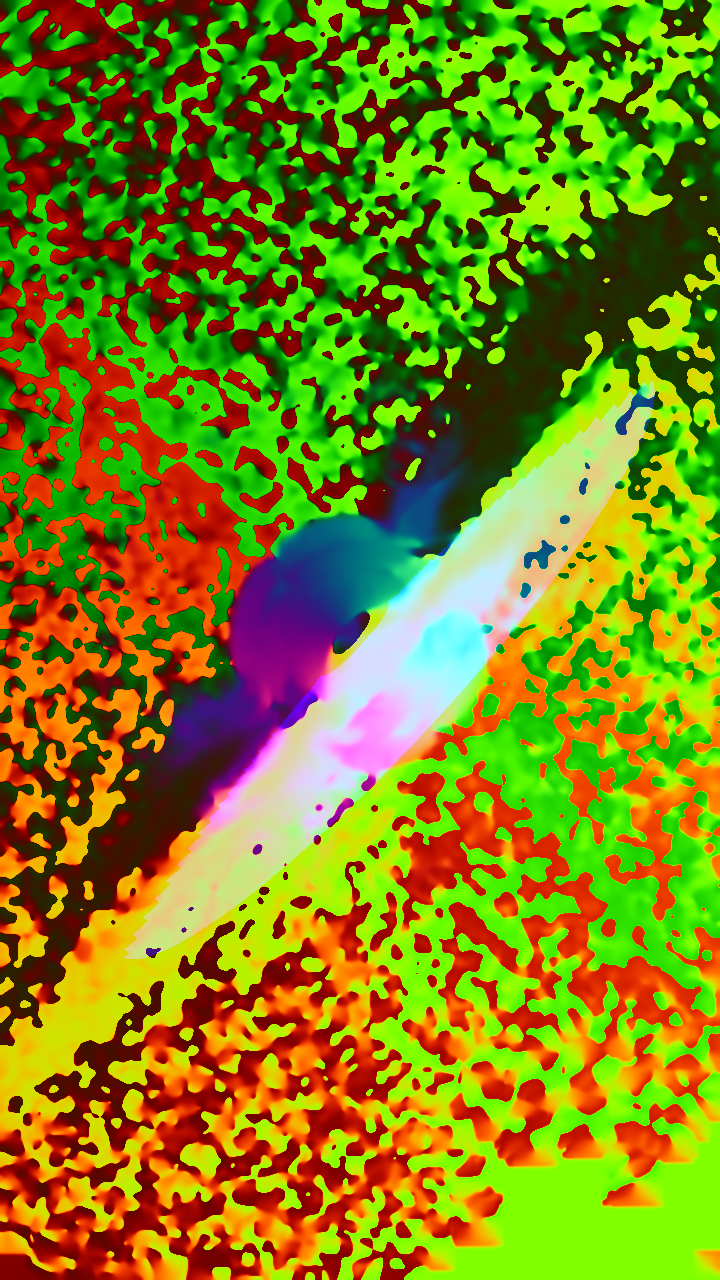
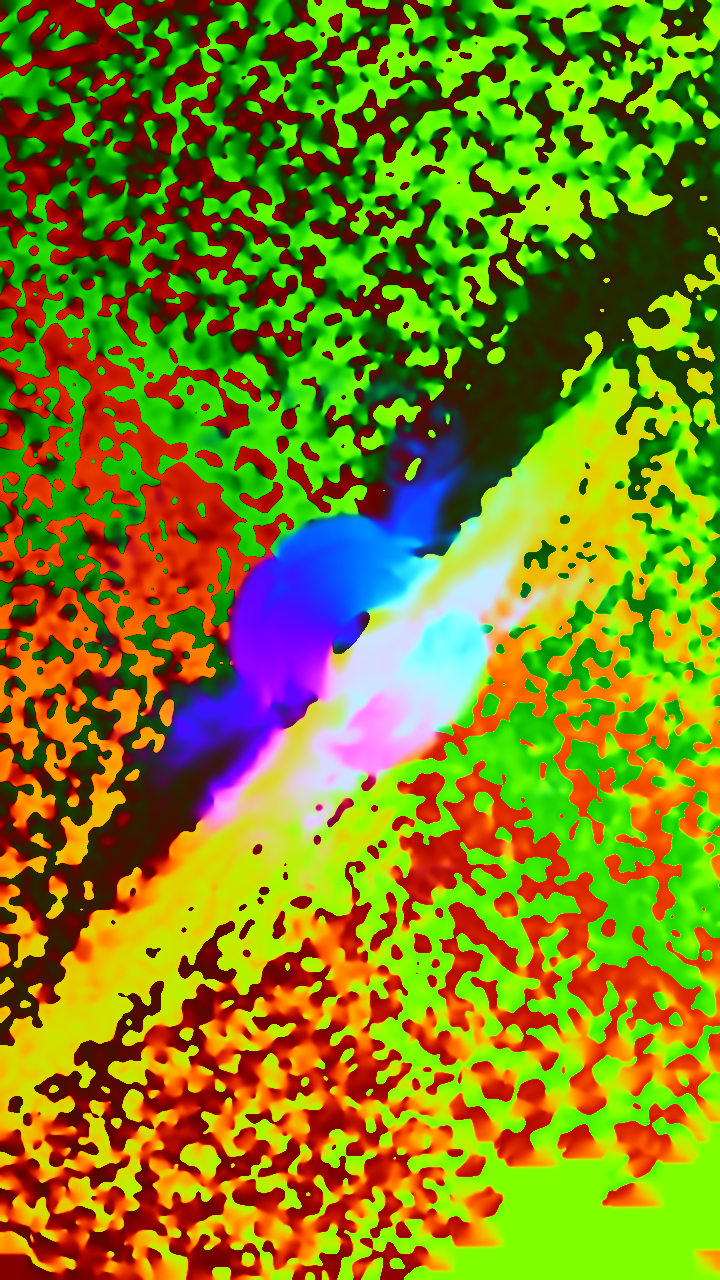
Ring flows without blocks: a smooth edge where the band crosses it, knots that never burn out
The lanes' streaming stopped at the bright band along the reference pixels' staircase, so arcs
were cut off in steps as they flowed; the band's edge is now baked as a smooth signed distance
(disk-seams.webp B) and the streaming fades out either side of it. The knots riding the ring
brighten without clipping to white, so they no longer read as patches stuck on the picture.
compare.html gains drawAt(t) for frame-by-frame motion checks.

Changed region(s): [[0.1833, 0.2812, 0.9167, 0.75], [0.5194, 0.2812, 0.55, 0.3125]]

diff --git a/src/blackhole.ts b/src/blackhole.ts
@@ -238,8 +238,8 @@ uniform sampler2D uTexIn;   // baked from the reference: inner disk, outer disk 
 uniform sampler2D uTexOut;  // outer disk seen round the hole (each indexed by azimuth and radius),
 uniform sampler2D uTexLen;  // and everything else, in the reference's own framing
 uniform sampler2D uTexScr;
-uniform sampler2D uTexSeam;  // distance (in the reference) to the nearest edge between surfaces
-uniform sampler2D uTexLane;  // the reference's light lanes: direction round the hole, weight, band flag
+uniform sampler2D uTexSeam;  // distance (in the reference) to the nearest edge between surfaces; wing corners; band side
+uniform sampler2D uTexLane;  // the reference's light lanes: direction round the hole, weight
 uniform sampler2D uTexFlow;  // the reference's lane orientation everywhere (doubled angle; length = coherence)
 uniform sampler2D uNoise;    // 256² white noise, for filaments grown along the lanes
 uniform sampler2D uTexRef;   // the reference refined along its lanes, at twice its resolution (see refineFrag)
@@ -742,11 +742,14 @@ vec3 orbitFlow(vec2 u, float cr, float sr, vec3 beyond, out float w) {
 // oriented to circulate with the disk); the picture is carried along them, inner lanes faster, so
 // the arcs stream round the hole — continuously across the edges between surfaces, as the lanes
 // themselves are continuous there — with knots of light travelling on them.
-vec4 laneAt(vec2 q) {
+vec3 laneAt(vec2 q) {
   vec3 L = textureLod(uTexLane, clamp(q, vec2(0.5), REF_SIZE - 0.5) / REF_SIZE, 0.0).rgb;
-  float b = floor(L.b * 255.0 + 0.5);
-  float band = step(127.5, b);
-  return vec4(L.rg * 2.0 - 1.0, (b - band * 128.0) / 127.0, band);
+  return vec3(L.rg * 2.0 - 1.0, L.b);
+}
+// Which side of the bright band's edge, and how far: up to 1 on the band, down to -1 off it (16
+// reference px away). Baked smooth, so the edge is a clean line, not the reference pixels' staircase.
+float bandSide(vec2 q) {
+  return textureLod(uTexSeam, clamp(q, vec2(0.5), REF_SIZE - 0.5) / REF_SIZE, 0.0).b * 2.0 - 1.0;
 }
 vec2 alongLanes(vec2 q, float s) {
   for (int k = 0; k < 3; k++) {
@@ -759,27 +762,30 @@ vec3 picQ(vec2 q) { return textureLod(uTexScr, clamp(q, vec2(0.5), REF_SIZE - 0.
 float laneSpin(float r) { return 0.9 * pow(max(r, 3.0) / 4.0, -1.0); }   // radians per 5 s cycle
 vec3 laneFlow(vec2 p, out float w) {
   w = 0.0;
-  if ((uReady & 32) == 0) return vec3(0.0);
+  if ((uReady & 48) != 48) return vec3(0.0);
   vec2 q = REF_C + vec2(p.x, -p.y) * (REF_PX / uScale);
   if (any(lessThan(q, vec2(0.0))) || any(greaterThan(q, REF_SIZE))) return vec3(0.0);
-  vec4 L0 = laneAt(q);
-  w = L0.z * smoothstep(2.6, 3.4, length(p) / uScale);
+  float side = bandSide(q);
+  // No light carried across the bright band's edge (it passes in front of the ring): the streaming
+  // fades out over a few pixels either side of it, and takes no light from across it, nor from
+  // right by it, so nothing is ever cut off along it.
+  w = laneAt(q).z * smoothstep(2.6, 3.4, length(p) / uScale) * smoothstep(0.06, 0.4, abs(side));
   if (w <= 0.003) return vec3(0.0);
   float rs = max(length(q - REF_C) / REF_PX, 2.6);
   float s = laneSpin(rs) * rs * REF_PX * SPIN_SCREEN;   // ref px per cycle
   vec3 cy = cycle(5.0);
   vec3 p0 = picQ(q);
   vec2 qa = alongLanes(q, -s * cy.x), qb = alongLanes(q, -s * cy.y);
-  // No light carried across the bright band's edge (it passes in front of the ring).
-  vec3 pa = laneAt(qa).w == L0.w ? picQ(qa) : p0;
-  vec3 pb = laneAt(qb).w == L0.w ? picQ(qb) : p0;
+  float sg = sign(side);
+  vec3 pa = mix(p0, picQ(qa), smoothstep(0.06, 0.4, bandSide(qa) * sg));
+  vec3 pb = mix(p0, picQ(qb), smoothstep(0.06, 0.4, bandSide(qb) * sg));
   return mix(pb, pa, cy.z) - p0;
 }
 float laneKnots(vec2 p) {
   vec2 x = p / uScale;
   float r = length(x);
   float a = atan(x.y, x.x) - SPIN_SCREEN * laneSpin(r) / 5.0 * uTime;
-  vec3 qn = vec3(r * 2.4, cos(a) * 4.0, sin(a) * 4.0);
+  vec3 qn = vec3(r * 3.4, cos(a) * 3.4, sin(a) * 3.4);
   return noise3(qn) * 0.7 + noise3(qn * vec3(2.3, 2.0, 2.0) + 4.1) * 0.3;
 }
 
@@ -1379,8 +1385,12 @@ void main() {
       if (lane > 0.0) {
         o += laned * lane;
         // Now and then a knot of light rides an arc of the ring (only on the ring's own arcs, never
-        // over the band or into the shadow).
-        if (hitType == 2 || hitType == 4) o *= 1.0 + smoothstep(0.62, 0.9, laneKnots(p)) * 0.55 * lane * laneAgree(p, vec2(-p.y, p.x) / max(length(p), 1e-3));
+        // over the band or into the shadow). A soft glow that never burns out to white: a hard-edged
+        // white blob would read as a patch stuck on the picture.
+        if (hitType == 2 || hitType == 4) {
+          float kn = smoothstep(0.6, 0.95, laneKnots(p)) * lane * laneAgree(p, vec2(-p.y, p.x) / max(length(p), 1e-3));
+          o += o * max(1.0 - o, 0.0) * kn * 1.3;
+        }
       }
       // The wings turn with the disk.
       float wing;

diff --git a/src/compare.ts b/src/compare.ts
@@ -12,12 +12,12 @@ const scale = REF_FRAME.pxPerRs * (q.mag ?? 1);
 const at: [number, number] = q.at ?? [REF_FRAME.cx, REF_FRAME.cy];
 const pin: [number, number] = q.at ? [c.width / 2, c.height / 2] : at;
 const mag = q.mag ?? 1;
-const draw = () =>
+const draw = (time = q.time ?? 6) =>
   hole.render({
     cx: pin[0] + (REF_FRAME.cx - at[0]) * mag,
     cy: c.height - (pin[1] + (REF_FRAME.cy - at[1]) * mag),
     scale,
-    time: q.time ?? 6,
+    time,
     flow: 0.07,
     warp: 0,
     reveal: 1,
@@ -35,6 +35,8 @@ const draw = () =>
     flowAmt: q.flowAmt ?? 0,
   });
 draw();
+// For frame-by-frame motion checks: drawAt(t) renders the scene at time t.
+(window as unknown as { drawAt: (t: number) => void }).drawAt = (t) => draw(t);
 let arrived = 0;
 hole.onBaked = () => {
   draw();

diff --git a/scripts/bake-disk.py b/scripts/bake-disk.py
@@ -1,7 +1,7 @@
 #!/usr/bin/env python3
 """Solve the disk textures (public/disk-*.webp) from the reference picture (public/hole-ref.webp),
-the map of edges between surfaces where motion holds still, and of the wings' removed corners
-(public/disk-seams.webp, R and G), and the
+the map of edges between surfaces where motion holds still, of the wings' removed corners, and of
+the bright band's edge (public/disk-seams.webp, R, G and B), and the
 picture's lane field round the hole (public/disk-lanes.webp) that the arcs stream along, and its
 lane orientation everywhere (public/disk-flow.webp) for drawing it far larger than itself.
 
@@ -89,8 +89,8 @@ def wing_corners(code):
 
 def bake_lanes(ref, code):
     """The picture's light lanes round the hole (public/disk-lanes.webp): RG the lane direction (y up,
-    turned to circulate counter-clockwise), B its weight (how clearly the lane runs round the hole)
-    plus 128 on the bright band, where light must not be carried across."""
+    turned to circulate counter-clockwise), B its weight (how clearly the lane runs round the hole).
+    Where light must not be carried across (the bright band's edge) is in disk-seams.webp's B."""
     CX, CY, PX = 356.0, 640.0, 11.5
     lum = ndimage.gaussian_filter(ref.mean(2), 1.2)
     gx, gy = ndimage.sobel(lum, 1), ndimage.sobel(lum, 0)
@@ -112,7 +112,7 @@ def bake_lanes(ref, code):
     w *= 1 - wing_corners(code)
     tux, tuy = ndimage.gaussian_filter(tux, 1.5), ndimage.gaussian_filter(tuy, 1.5)
     n = np.maximum(np.hypot(tux, tuy), 1e-6)
-    rgb = np.stack([np.round((tux / n * 0.5 + 0.5) * 255), np.round((tuy / n * 0.5 + 0.5) * 255), np.round(w * 127) + (code == 3) * 128], -1)
+    rgb = np.stack([np.round((tux / n * 0.5 + 0.5) * 255), np.round((tuy / n * 0.5 + 0.5) * 255), np.round(w * 255)], -1)
     Image.fromarray(rgb.astype(np.uint8), 'RGB').save(os.path.join(ROOT, 'public', 'disk-lanes.webp'), lossless=True, quality=100, method=6)
 
 
@@ -159,7 +159,14 @@ def main():
     # G: the wing corners, where the page treats the picture as open sky (streaming outwards, no
     # orbital detail or motion).
     corners = wing_corners(code)
-    rgb = np.stack([np.round(seams * 255), np.round(corners * 255), np.zeros_like(seams)], -1)
+    # B: which side of the bright band's edge (the outer disk seen directly, passing in front of the
+    # ring), and how far: 0.5 on the edge, up on the band, down off it, saturated 16 px away. Smoothed,
+    # so the edge is a clean line rather than the pixels' staircase however far the page enlarges it
+    # (the lanes' light is carried up to it, never across).
+    band = code == 3
+    side = ndimage.gaussian_filter(ndimage.distance_transform_edt(band) - ndimage.distance_transform_edt(~band), 1.5)
+    side = np.clip(0.5 + side / 32.0, 0, 1)
+    rgb = np.stack([np.round(seams * 255), np.round(corners * 255), np.round(side * 255)], -1)
     Image.fromarray(rgb.astype(np.uint8), 'RGB').save(
         os.path.join(ROOT, 'public', 'disk-seams.webp'), lossless=True, quality=100, method=6)
 
